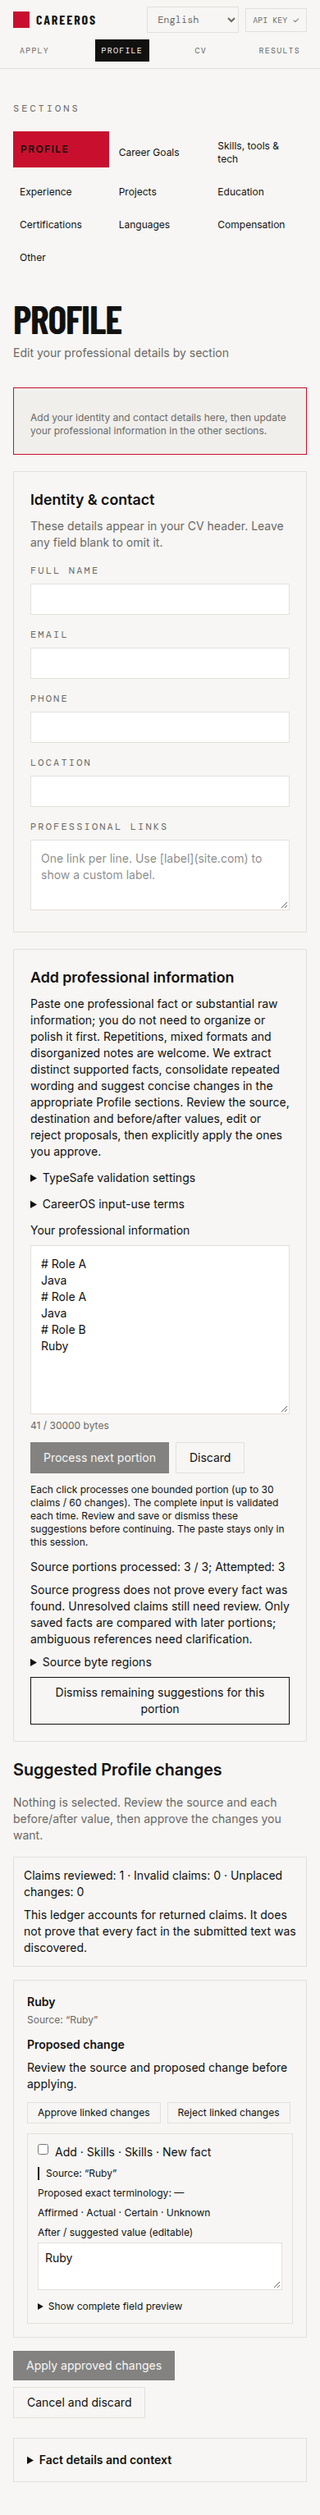
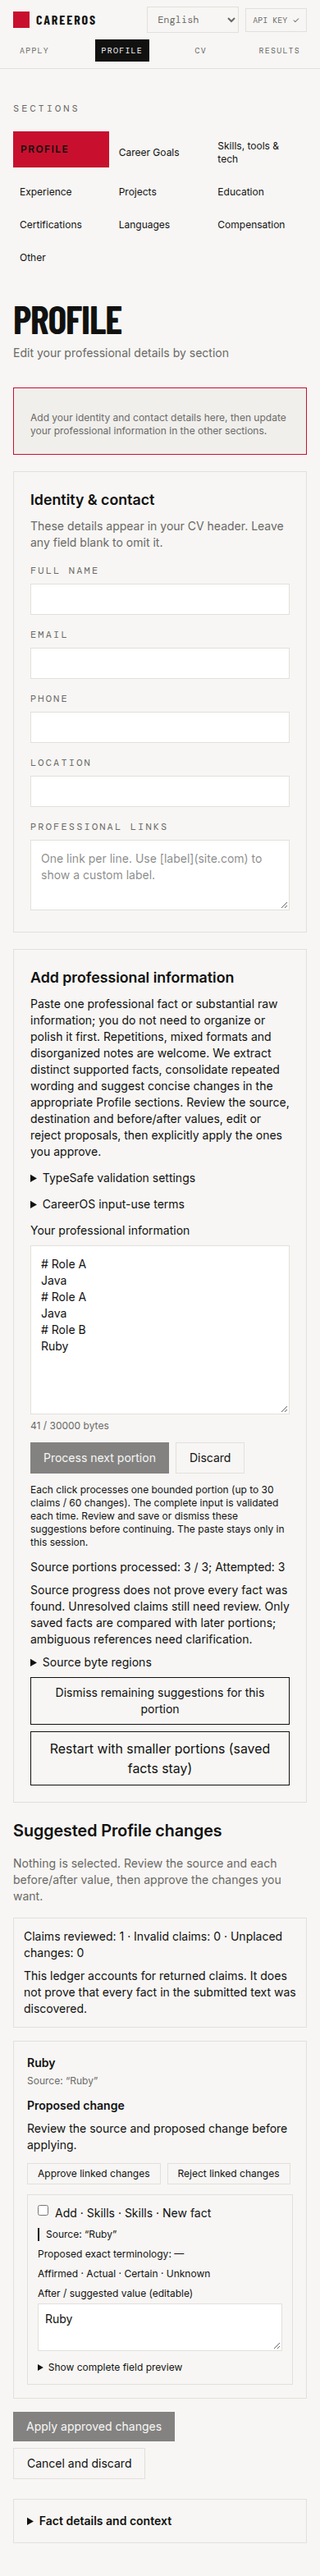
Record final continuation verification and review (#41)

diff --git a/docs/release-evidence/2026-10-09-profile-continuation.md b/docs/release-evidence/2026-10-09-profile-continuation.md
@@ -60,3 +60,13 @@ heading remains supporting evidence for later Java responsibilities, retaining a
 five grounded structured fields. An ambiguous “Its project” claim remains a
 Clarification Request with zero attributed operations. No semantic completeness
 claim is inferred from these controlled responses.
+
+## Final validation
+
+Final implementation `1b741b0` passed `go test ./...` (with the repository's temporary
+Go cache), `node --test tests/*.test.mjs`, `tsc --noEmit`, and a production Vite build
+to a temporary output directory. The complete `tests/ingestion-browser.check.mjs`
+run passed field-decision, empty/populated ingestion, continuation/retry/incomplete-plan
+restart, save recovery and cross-tab checks in EN/PT at 1440px and 390px. Retained
+screenshots are from this final run. Separate correction reviews report zero
+remaining actionable Standards findings and zero remaining actionable Spec findings.
